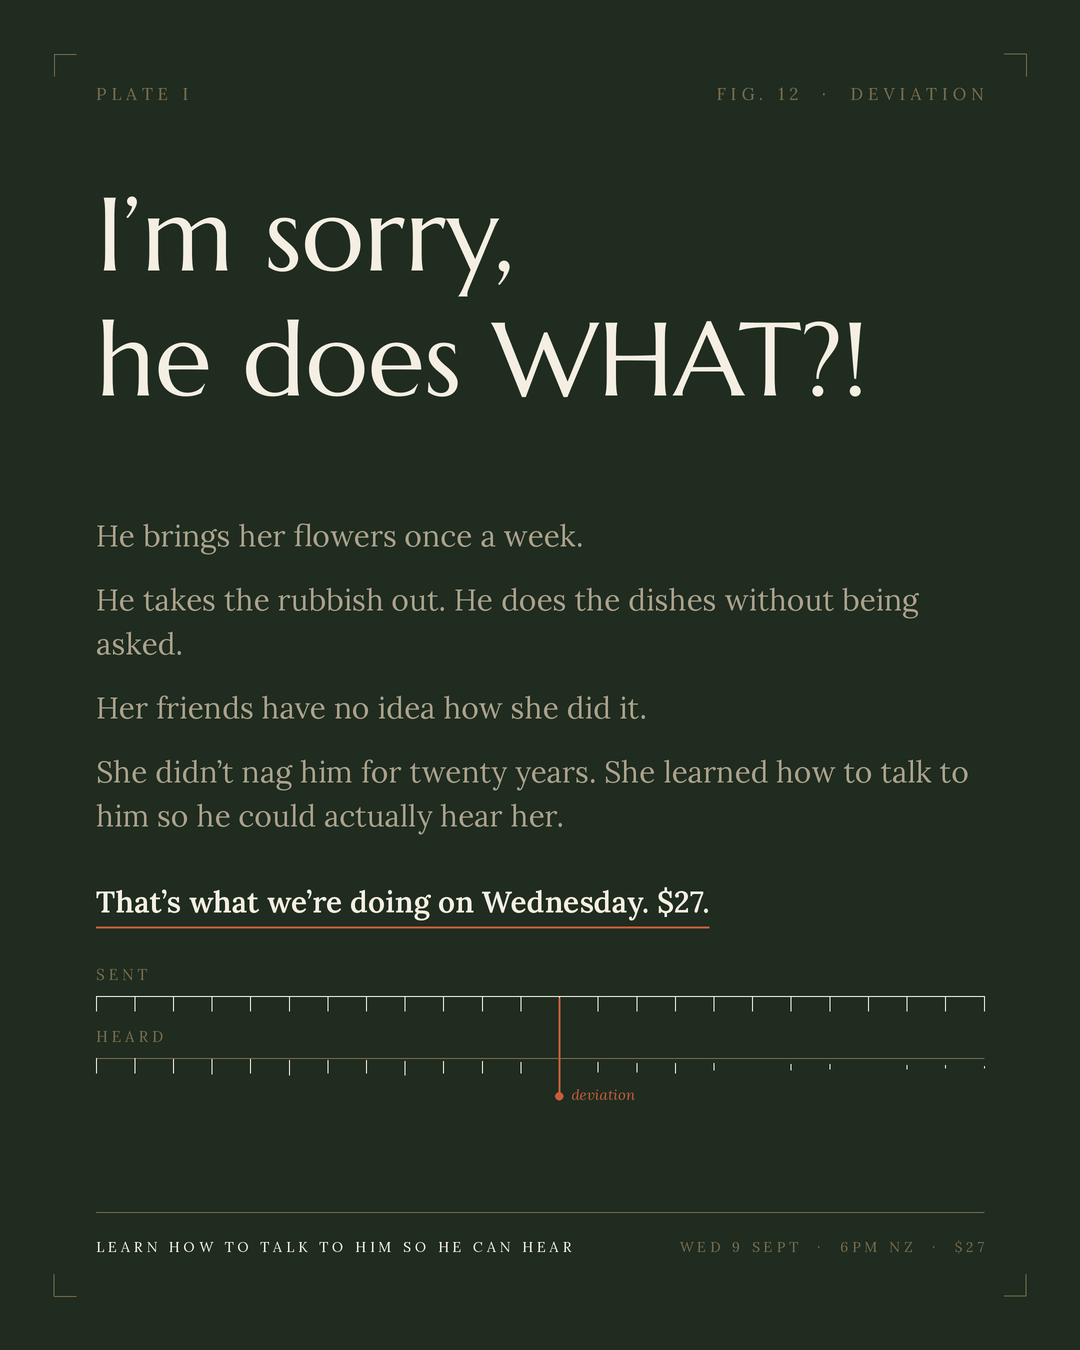
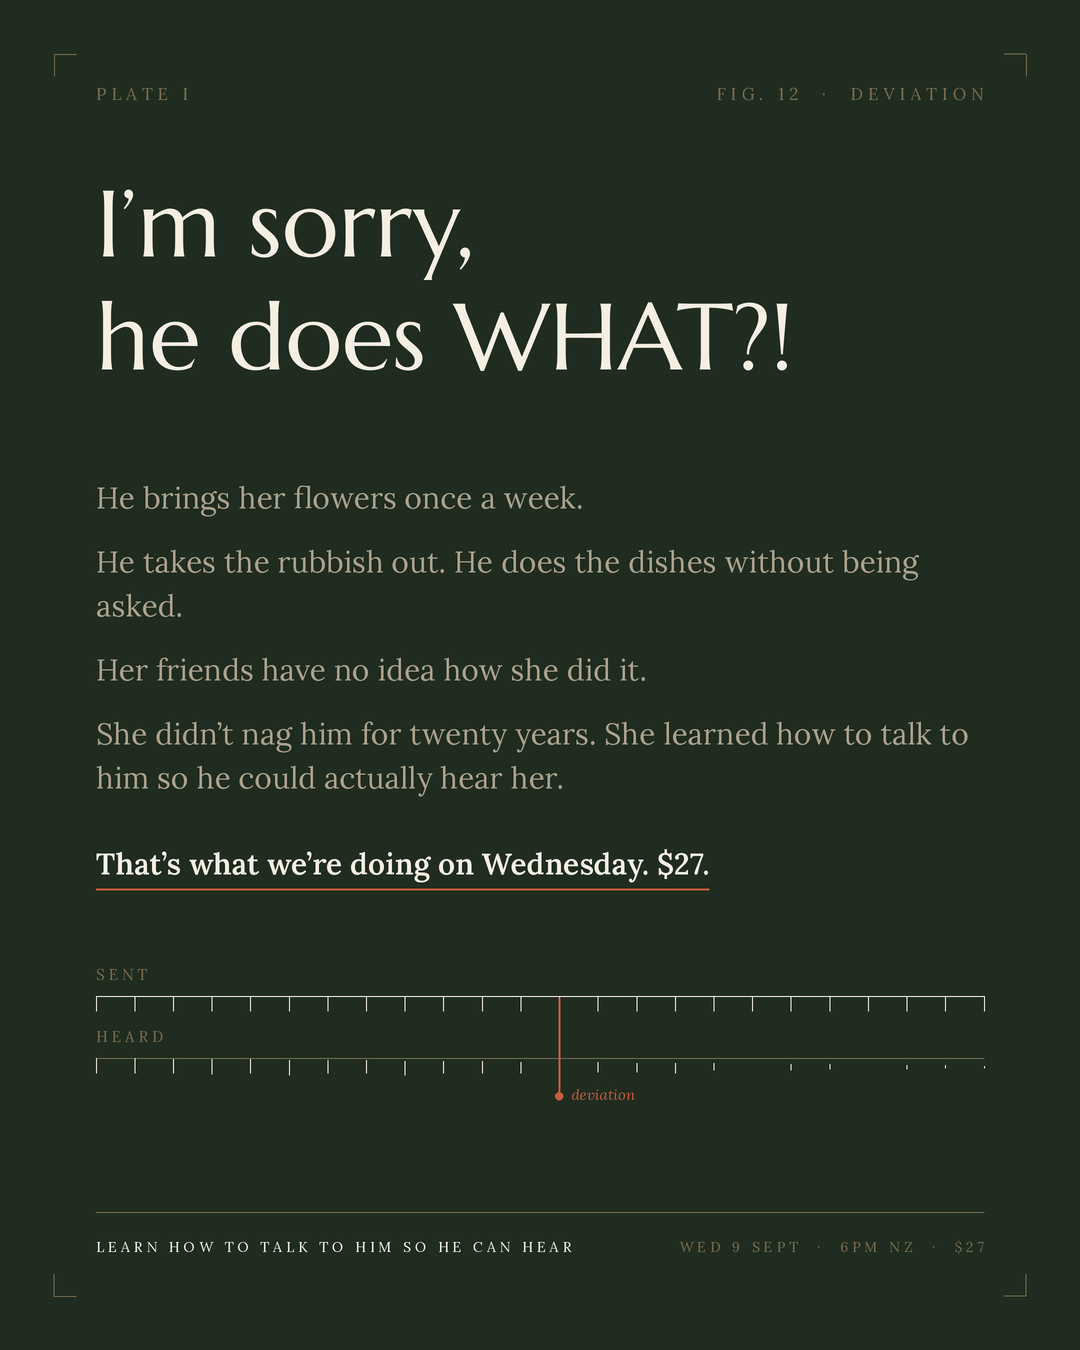
Apply the swipe formula to every statement card
Cards 3, 4, 5, 8 and 10 carried a single statement and nothing else. They
now follow the same structure as card 2: the hook, the mechanism in short
plain sentences, then an underlined call to action carrying the date and
the price.

Both card layouts now shrink the display type when the body runs long
instead of overflowing into the diagram, which is what card 5 and card 8
did on the first pass. Adds the same tail and cta options to list_card.

Claude-Session: https://claude.ai/code/session_0189Uci9zQ9EfV1FfjoHzooM

Changed region(s): [[0.0917, 0.3422, 0.8861, 0.6844], [0.0917, 0.1244, 0.7944, 0.3111]]

diff --git a/content/design/render_cards.py b/content/design/render_cards.py
@@ -181,32 +181,37 @@ def statement_card(path, plate, fig, lines, bg, ink, faint, accent,
     measure = W - 2 * MARGIN
     disp = "Marcellus-Regular.ttf"
     size = fit_size(d, lines, disp, measure, maxsize * S)
-    f = font(disp, size)
-    lead = round(size * 1.20)
-
-    lq_h = 0
-    lq_f = None
-    if quote_lead:
-        lq_f = font("Lora-Italic.ttf", round(size * 0.40))
-        lq_h = round(size * 0.40 * 1.34) * len(quote_lead)
-
     # Optically centre the whole group (statement + evidence) in the field
     # between the notation row and the bottom rail, biased a little high.
     tf = tl = None
     tail_h = 0
     if tail:
         tf = font("Lora-Regular.ttf", 30 * S)
-        tl = []
-        for para in tail:
-            tl.append(wrap(d, para, tf, W - 2 * MARGIN))
+        tl = [wrap(d, para, tf, W - 2 * MARGIN) for para in tail]
         tail_h = 44 * S + sum(len(b) * 44 * S + 20 * S for b in tl)
     if cta:
-        tail_h += 78 * S
+        tail_h += 116 * S
 
-    block = lq_h + lead * len(lines) + tail_h
     top_b = MARGIN + 88 * S
     bot_b = sig_top() - 64 * S
-    top = top_b + (bot_b - top_b - block) * 0.46
+    room = bot_b - top_b
+
+    # Shrink the display until the whole group clears the diagram. A card
+    # that overflows into the plate is worse than one set a size smaller.
+    def measure(sz):
+        ld = round(sz * 1.20)
+        lq = (round(sz * 0.40 * 1.34) * len(quote_lead)
+              + round(sz * 0.24)) if quote_lead else 0
+        return lq + ld * len(lines) + tail_h, ld, lq
+
+    block, lead, lq_h = measure(size)
+    while block > room and size > 52 * S:
+        size -= 2 * S
+        block, lead, lq_h = measure(size)
+    f = font(disp, size)
+    lq_f = font("Lora-Italic.ttf", round(size * 0.40)) if quote_lead else None
+
+    top = top_b + max(0, (room - block)) * 0.46
     y = top + size * 0.76
 
     if quote_lead:
@@ -246,7 +251,8 @@ def statement_card(path, plate, fig, lines, bg, ink, faint, accent,
     print("wrote", path, "| display", size // S, "px")
 
 
-def list_card(path, plate, fig, header, items, bg, ink, faint, accent):
+def list_card(path, plate, fig, header, items, bg, ink, faint, accent,
+              tail=None, cta=None):
     img, d = base(bg)
     furniture(d, plate, fig, ink, faint)
     measure = W - 2 * MARGIN
@@ -254,14 +260,30 @@ def list_card(path, plate, fig, header, items, bg, ink, faint, accent):
     hf = font("Lora-Regular.ttf", 27 * S)
     hlead = round(27 * S * 1.5)
     size = fit_size(d, items, "Marcellus-Regular.ttf", measure - 54 * S, 76 * S)
-    f = font("Marcellus-Regular.ttf", size)
-    step = round(size * 1.86)
     num = font("Lora-Regular.ttf", 15 * S)
 
-    block = hlead * len(header) + 52 * S + step * len(items)
+    tf = font("Lora-Regular.ttf", 30 * S)
+    tl = [wrap(d, para, tf, W - 2 * MARGIN) for para in (tail or [])]
+    extra = (44 * S + sum(len(b) * 44 * S + 20 * S for b in tl)) if tail else 0
+    if cta:
+        extra += 116 * S
+
     top_b = MARGIN + 88 * S
     bot_b = sig_top() - 64 * S
-    y = top_b + (bot_b - top_b - block) * 0.46 + 27 * S
+    room = bot_b - top_b
+
+    # Same rule as the statement cards: shrink rather than run into the plate.
+    def blk(sz):
+        st = round(sz * 1.72)
+        return hlead * len(header) + 52 * S + st * len(items) + extra, st
+
+    block, step = blk(size)
+    while block > room and size > 40 * S:
+        size -= 2 * S
+        block, step = blk(size)
+    f = font("Marcellus-Regular.ttf", size)
+
+    y = top_b + max(0, (room - block)) * 0.46 + 27 * S
 
     for hl in header:
         d.text((MARGIN, y), hl, font=hf, fill=faint, anchor="ls")
@@ -279,6 +301,22 @@ def list_card(path, plate, fig, header, items, bg, ink, faint, accent):
         d.line([(MARGIN + 54 * S, sy), (MARGIN + 54 * S + wln, sy)],
                fill=c, width=S)
         y += step
+
+    if tail:
+        y += 4 * S
+        tc = mix(faint, ink, 0.42)
+        for blk in tl:
+            for ln in blk:
+                d.text((MARGIN, y), ln, font=tf, fill=tc, anchor="ls")
+                y += 44 * S
+            y += 20 * S
+    if cta:
+        y += 22 * S
+        cf = font("Lora-SemiBold.ttf", 30 * S)
+        d.text((MARGIN, y), cta, font=cf, fill=ink, anchor="ls")
+        wc = d.textlength(cta, font=cf)
+        d.line([(MARGIN, y + 15 * S), (MARGIN + wc, y + 15 * S)],
+               fill=accent, width=2 * S)
 
     signal(d, sig_top(), ink, faint, accent)
     img.resize((1080, 1350), Image.LANCZOS).save(path)
@@ -304,7 +342,13 @@ statement_card(
 
 statement_card(
     f"{OUT}/ad-03-im-fine.png", "PLATE II", "FIG. 12  ·  DEVIATION",
-    ["“I said", "I’m fine.”"], hang=True, maxsize=168, **LIGHT)
+    ["“I said", "I’m fine.”"], hang=True, maxsize=132, tail_strong=True,
+    tail=["You weren’t fine. He knew you weren’t fine.",
+          "And you both let it go, again, because the last four times it "
+          "turned into a fight.",
+          "Twenty years of that is how two people end up living like "
+          "flatmates in a house they bought together."],
+    cta="Wednesday we break it. $27.", **LIGHT)
 
 statement_card(
     f"{OUT}/ad-04-what-he-hears.png", "PLATE III", "FIG. 12  ·  DEVIATION",
@@ -312,24 +356,32 @@ statement_card(
     maxsize=94,
     tail=["He hears that he’s failing you.",
           "You don’t even know that’s what he heard.",
-          "And that’s what he defends himself against."], **DARK)
+          "And that’s what he defends himself against."],
+    cta="Wednesday 9 September, 6pm NZ. $27.", **DARK)
 
 statement_card(
     f"{OUT}/ad-05-costume.png", "PLATE IV", "FIG. 12  ·  DEVIATION",
-    ["is not a feeling.", "That’s why he", "defends himself."],
-    quote_lead=["“I feel like you never listen”"], **LIGHT)
+    ["is not a feeling.", "That’s why he", "defends himself."], maxsize=104,
+    quote_lead=["“I feel like you never listen”"], tail_strong=True,
+    tail=["He hears blame. So he defends himself.",
+          "And then you wonder why this keeps happening.",
+          "There are three sentences that actually get through."],
+    cta="Wednesday, 6pm NZ. $27.", **LIGHT)
 
 list_card(
     f"{OUT}/ad-08-four-sentences.png", "PLATE V", "FIG. 12  ·  DEVIATION",
     ["Four sentences that guarantee", "he stops listening."],
     ["“You always...”", "“Why can’t you just...”",
      "“I shouldn’t have to ask.”",
-     "“Never mind, forget it.”"], **DARK)
+     "“Never mind, forget it.”"],
+    tail=["I’ve said all four of them. They’re what comes out when you’re "
+          "tired of asking."],
+    cta="Learn how to say it so he can give you what you want.", **DARK)
 
 statement_card(
     f"{OUT}/ad-10-its-tomorrow.png", "PLATE VI", "FIG. 12  ·  DEVIATION",
     ["It’s tomorrow."], maxsize=124,
     tail=["Feel Wanted and Loved Again.",
           "Wednesday 9 September, 6 to 9pm NZ.",
-          "Three hours, live on Zoom. $27.",
-          "Join us."], **LIGHT)
+          "Three hours, live on Zoom. $27."],
+    cta="Join us.", **LIGHT)

diff --git a/content/ads-talk-so-he-can-hear.md b/content/ads-talk-so-he-can-hear.md
@@ -114,7 +114,17 @@ Wednesday 9 September, 6 to 9pm NZ. Three hours, live on Zoom. \$27.
 
 **Card:** `images/ads/ad-03-im-fine.png`
 
-**On the card:** "I said I'm fine."
+**On the card:**
+
+> "I said I'm fine."
+>
+> You weren't fine. He knew you weren't fine.
+> And you both let it go, again, because the last four times it turned
+> into a fight.
+> Twenty years of that is how two people end up living like flatmates in
+> a house they bought together.
+>
+> Wednesday we break it. \$27.
 
 **Primary text:**
 
@@ -180,8 +190,16 @@ off.
 
 **Card:** `images/ads/ad-05-costume.png`
 
-**On the card:** "I feel like you never listen" is not a feeling.
-That's why he defends himself.
+**On the card:**
+
+> "I feel like you never listen" is not a feeling.
+> That's why he defends himself.
+>
+> He hears blame. So he defends himself.
+> And then you wonder why this keeps happening.
+> There are three sentences that actually get through.
+>
+> Wednesday, 6pm NZ. \$27.
 
 **Primary text:**
 
@@ -251,6 +269,11 @@ Wednesday. You'll learn how to say it so he can actually hear you.
 > Four sentences that guarantee he stops listening:
 > "You always..." / "Why can't you just..." /
 > "I shouldn't have to ask." / "Never mind, forget it."
+>
+> I've said all four of them. They're what comes out when you're tired
+> of asking.
+>
+> Learn how to say it so he can give you what you want.
 
 **Primary text:**
 
